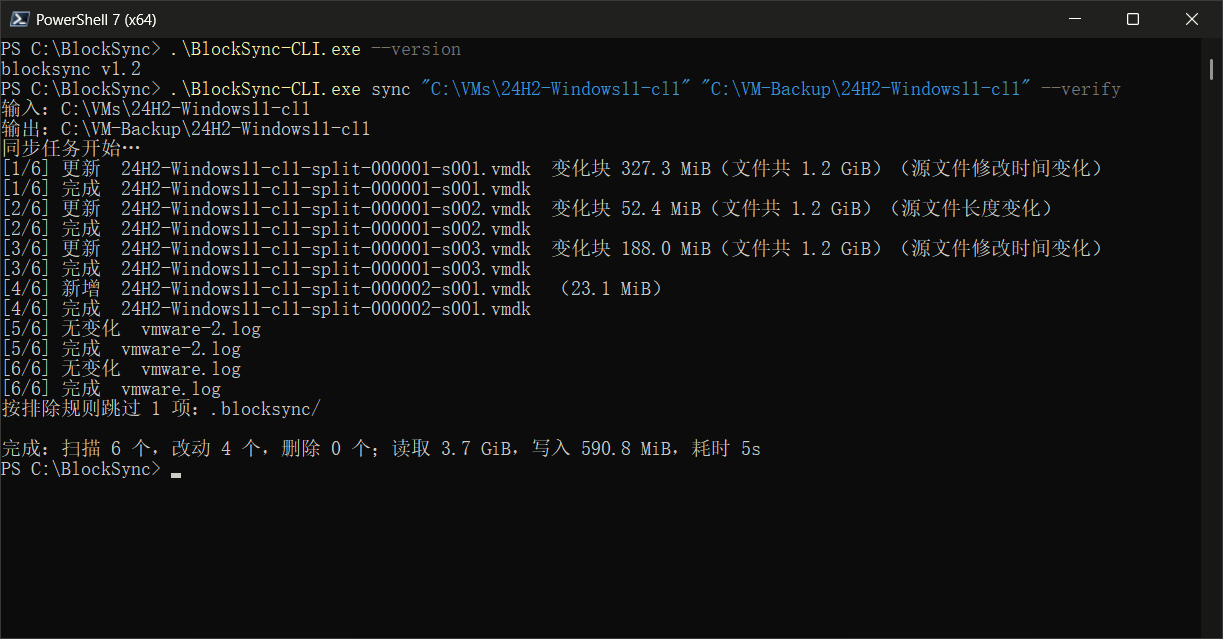
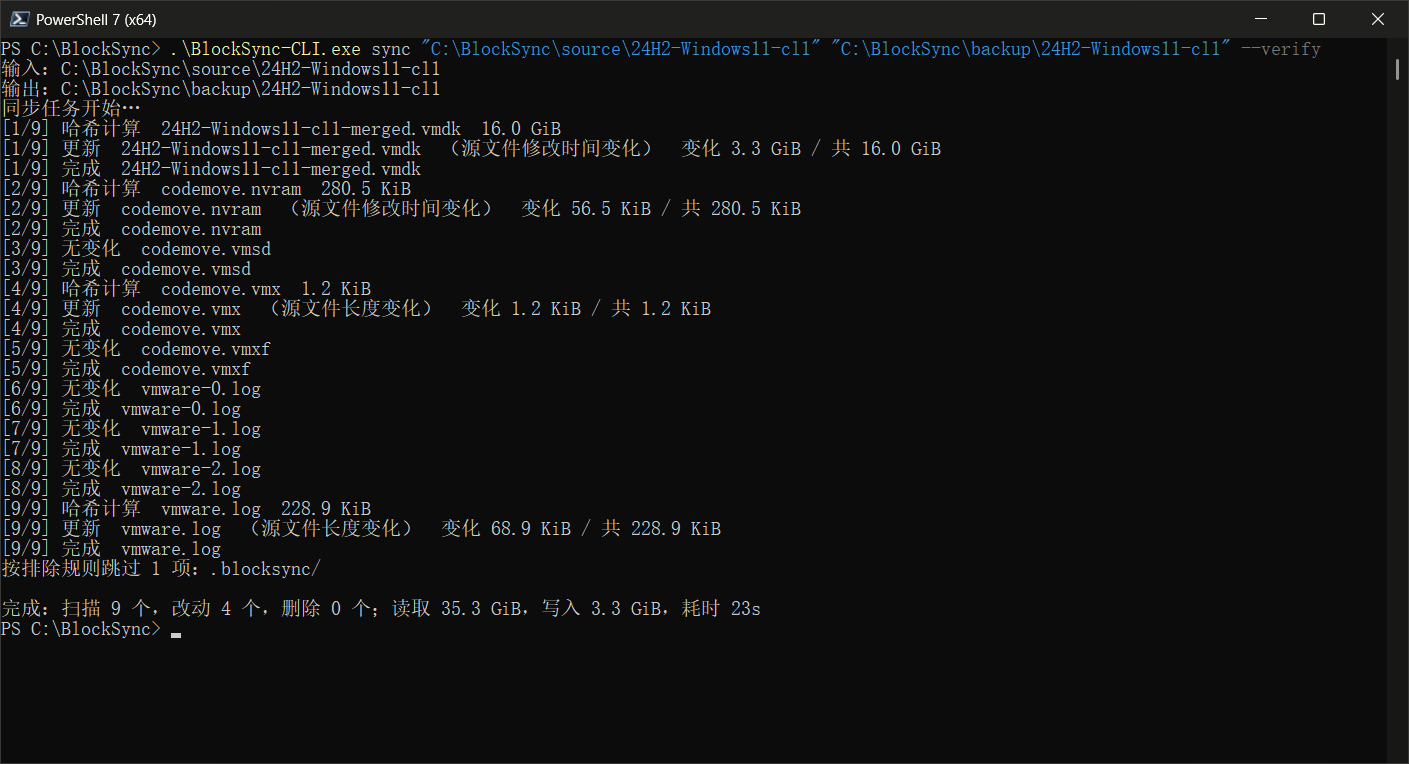
docs(readme): 更新界面截图并同步图注
- 更新命令行与图形界面的界面截图
- 同步图片说明中的写入量描述

diff --git a/README.md b/README.md
@@ -8,7 +8,7 @@
 BlockSync 把文件切成 32 KiB 的块并记录 SHA-256，按块比较差异，一次同步只写入变化的部分。对大文件反复小幅修改的场景（虚拟机磁盘、数据库文件、磁盘镜像、视频工程），写入量可以下降一到两个数量级。
 
 <p align="center">
-  <img src="blocksync-cli.png" width="1000" alt="命令行同步：逐文件状态、变化块写入量与完成标记"><br>
+  <img src="blocksync-cli.png" width="1000" alt="命令行同步：逐文件状态、变化量与完成标记"><br>
   <sub><em style="color:#888">命令行界面</em></sub>
 </p>
 

diff --git a/wiki/图形界面.md b/wiki/图形界面.md
@@ -2,7 +2,7 @@
 
 `BlockSync-GUI.exe` 不包含任何同步逻辑：它只收集路径与选项，调用 CLI 执行 `sync` 并回显输出，因此界面行为与命令行完全一致，界面上的每个按钮都能对应到 CLI 参数。本文说明它的结构与界面协议，供维护与排错。
 
-![图形界面同步：逐文件变化块与合计读写量](../blocksync-ui.png)
+![图形界面同步：逐文件变化量与合计读写量](../blocksync-ui.png)
 
 ## 1. 单文件形态与嵌入机制
 
